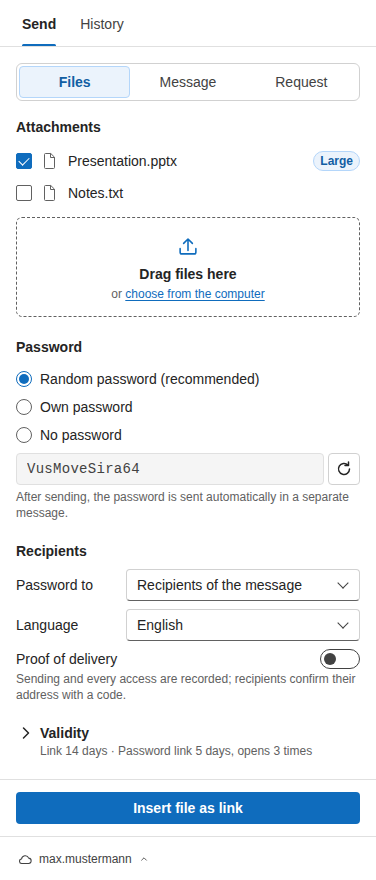
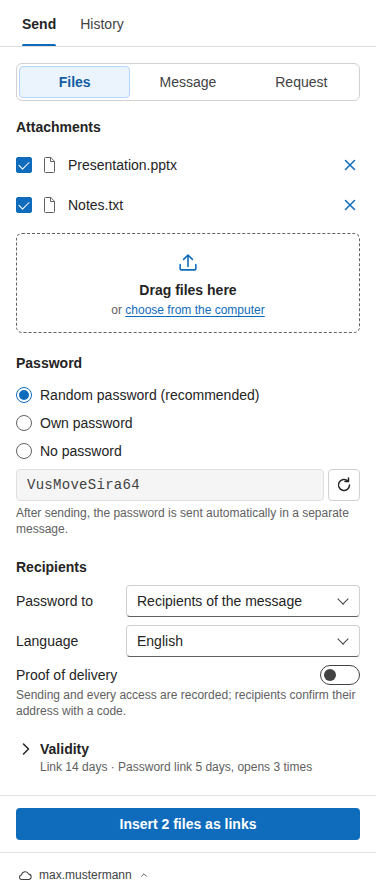
README pictures: all attachments ticked, × per row

diff --git a/README.md b/README.md
@@ -74,7 +74,7 @@ password (to the recipients), **green** – downloaded, **red** – a problem.
 
 ## Using CloudShare
 
-<img src="docs/images/taskpane-send.png" alt="CloudShare pane, tab Send: the switch Files / Message / Request, the attachments ticked, each with its "×", the password options, the block Recipients with Password to, Language and the switch Proof of delivery, the collapsed Validity with its summary and the button Insert file as link" width="300" align="right">
+<img src="docs/images/taskpane-send.png" alt="CloudShare pane, tab Send: the switch Files / Message / Request, both attachments ticked, each with its "×", the password options, the block Recipients with Password to, Language and the switch Proof of delivery, the collapsed Validity with its summary and the button Insert file as link" width="300" align="right">
 
 **Once:** open the pane with the **CloudShare** button in the ribbon and click **"Connect"** – the Nextcloud login
 opens in the browser (usually without typing anything, thanks to single sign-on). CloudShare remembers the
